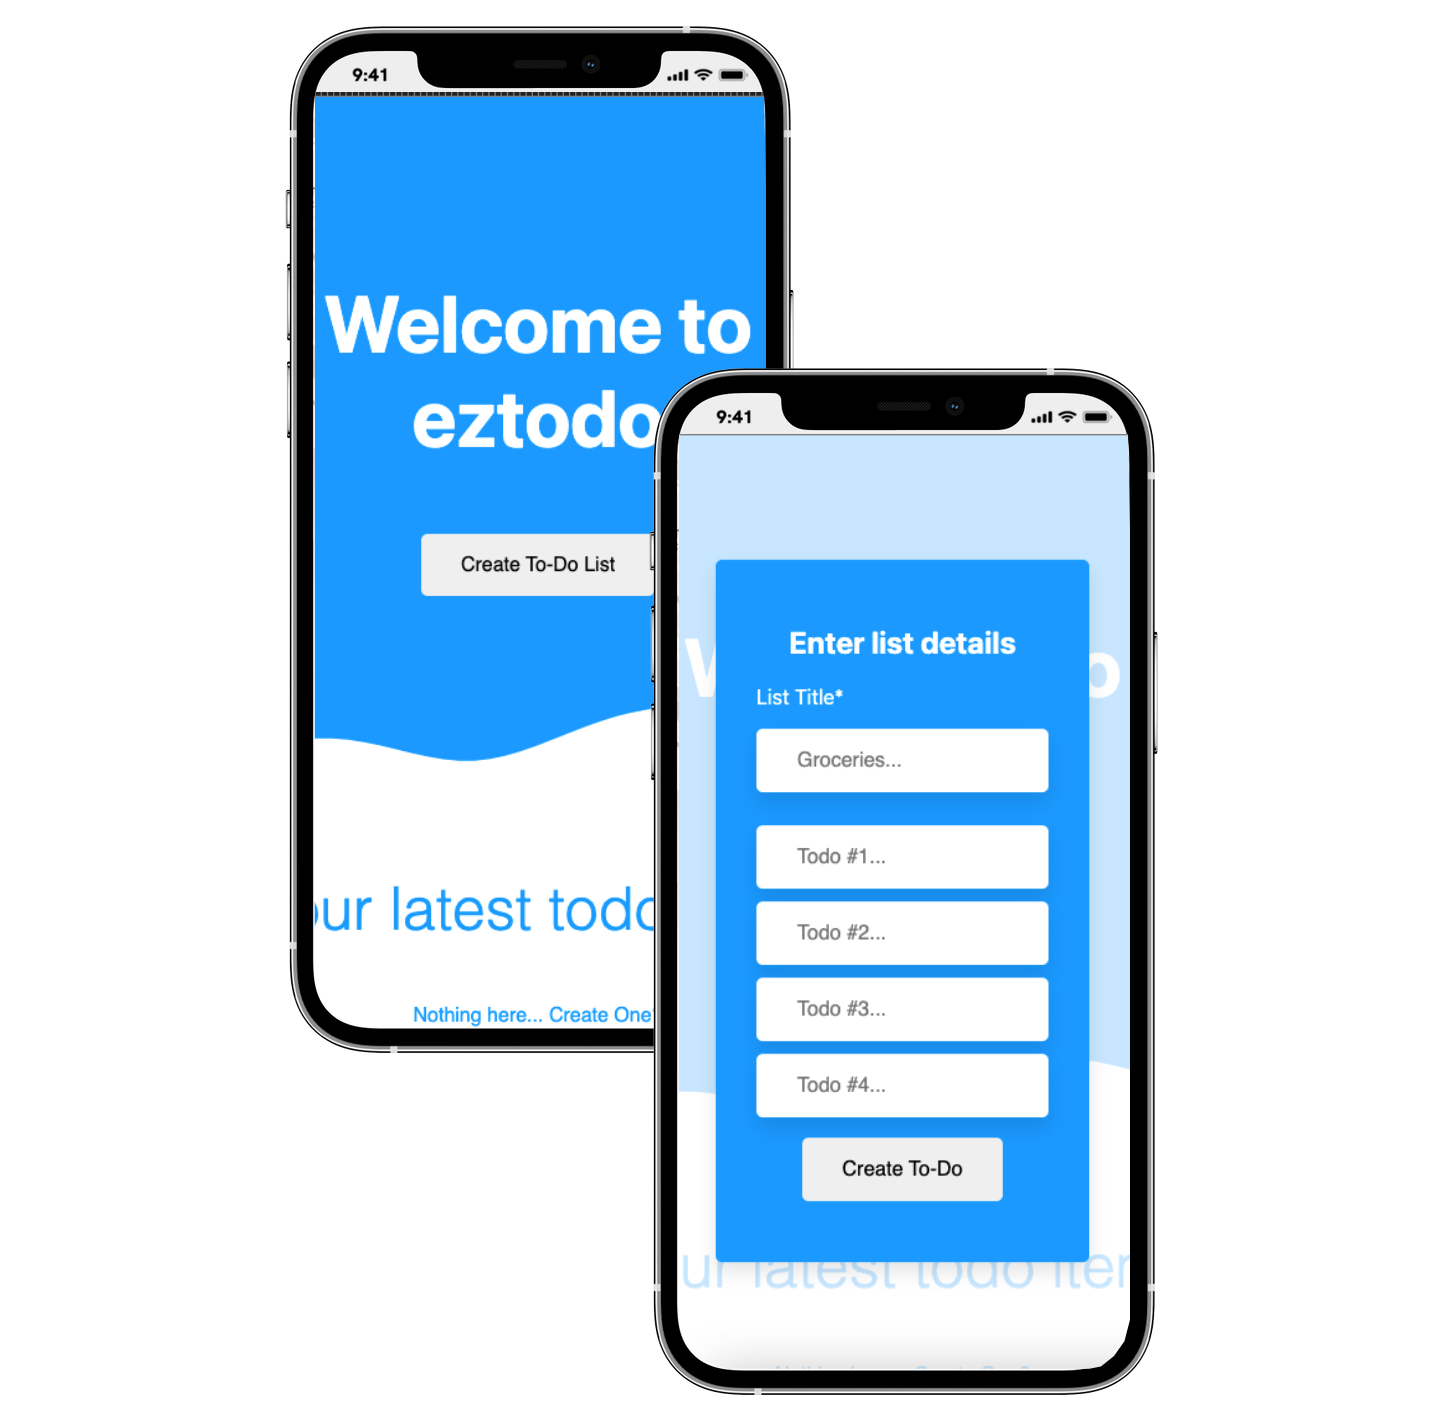
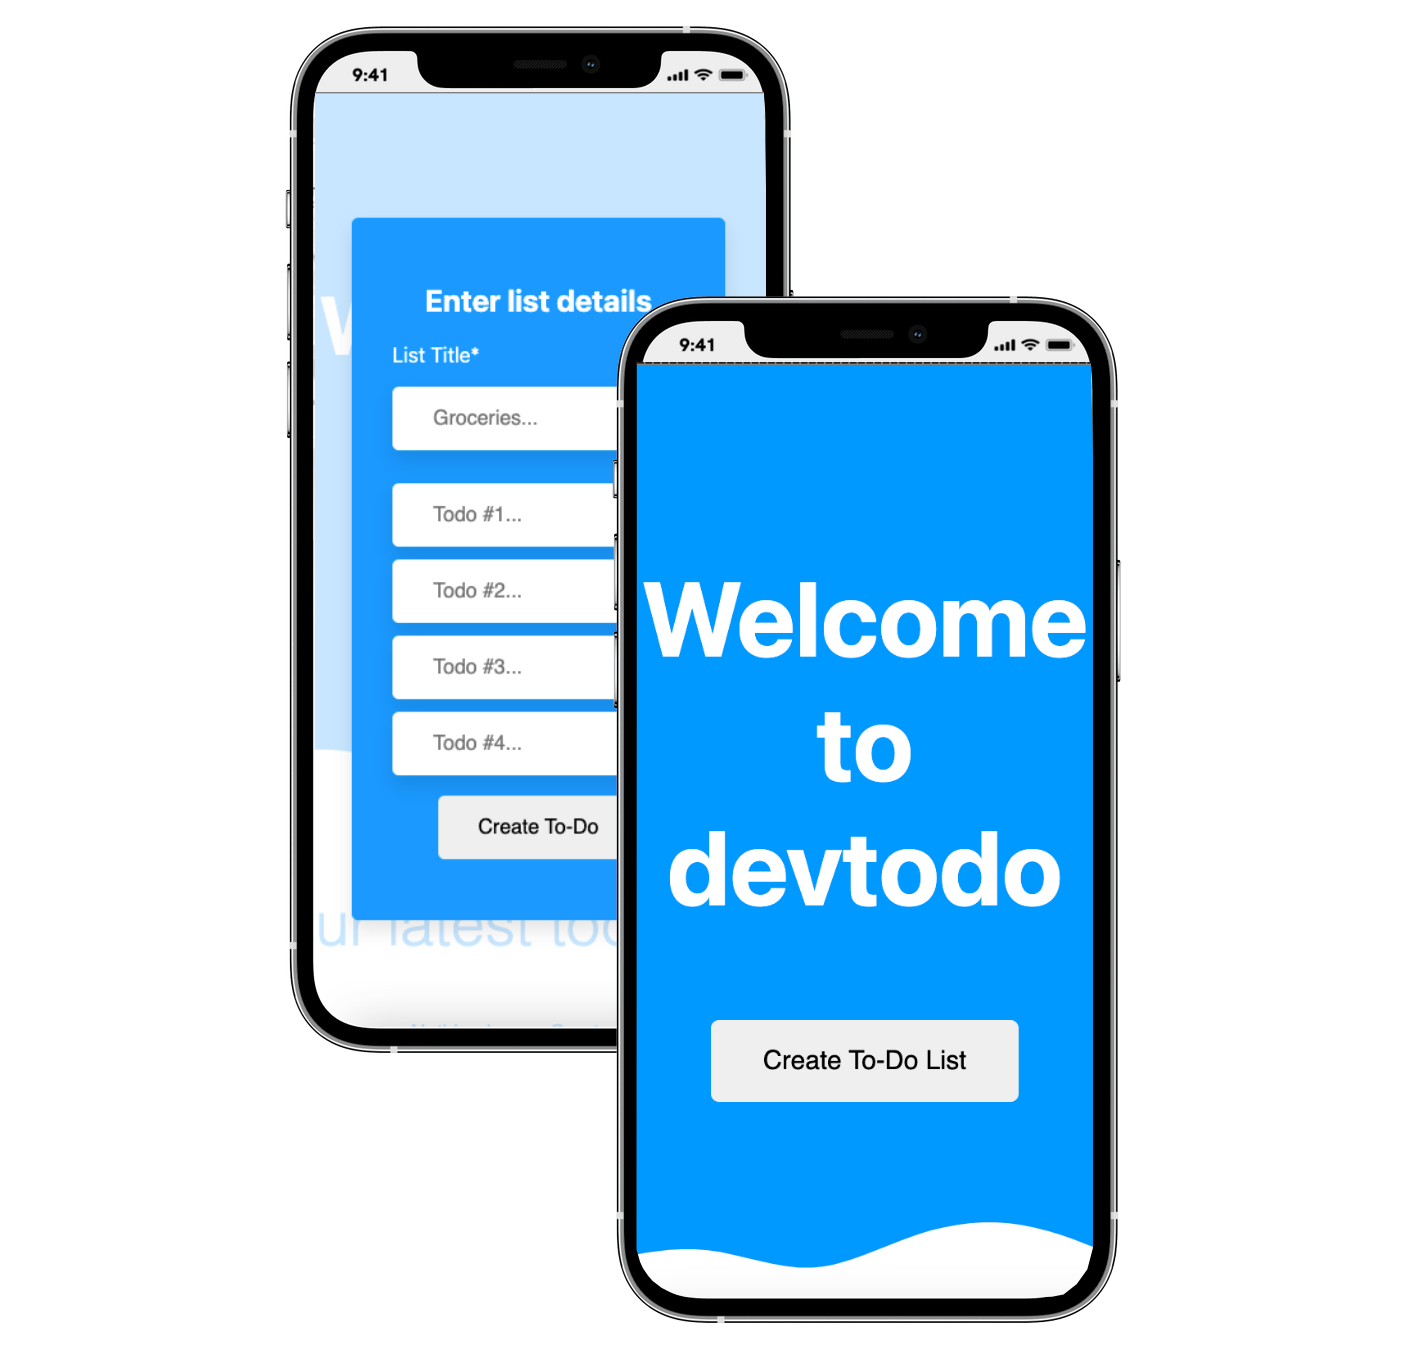
updated devtodo

diff --git a/public/db/db.js b/public/db/db.js
@@ -8,9 +8,8 @@ const data = [
     {
       id: 2,
       imgSrc: "/uitodoimage.png",
-      title: "uitodo",
-      description: "A collaborative todo app",
-
+      title: "devtodo",
+      description: "A collaborative app for developers",
     },
     {
       id: 3,
